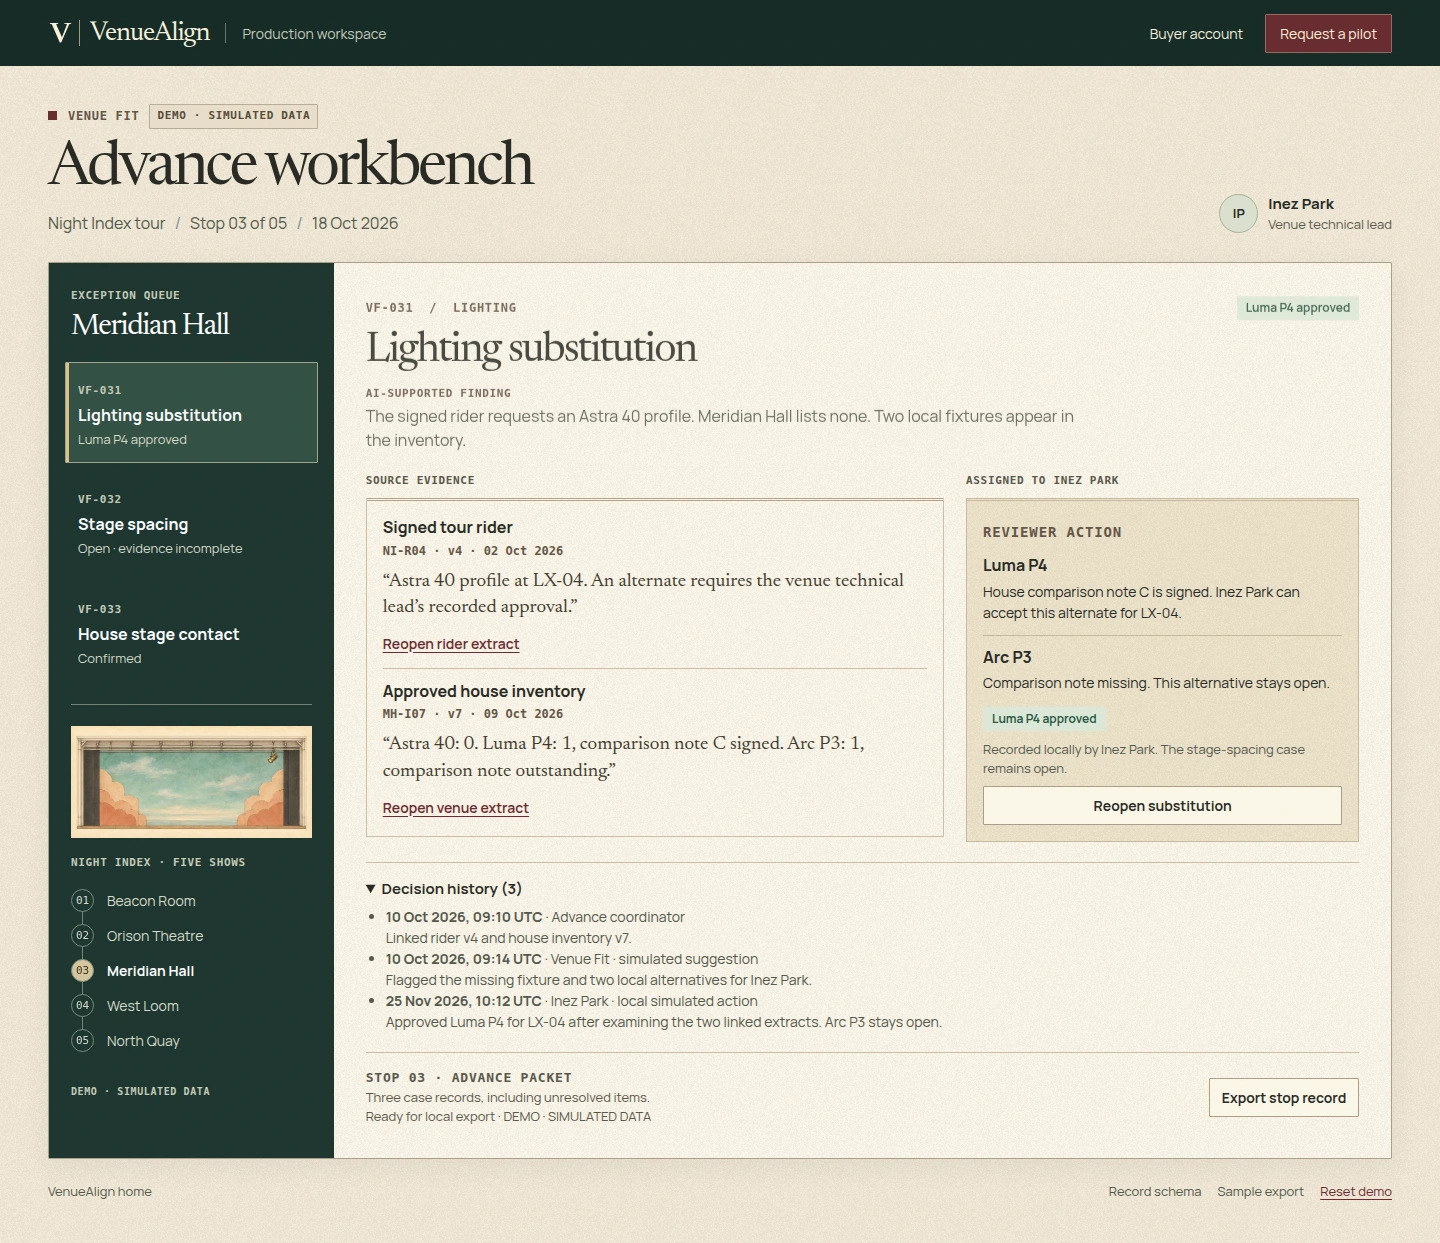
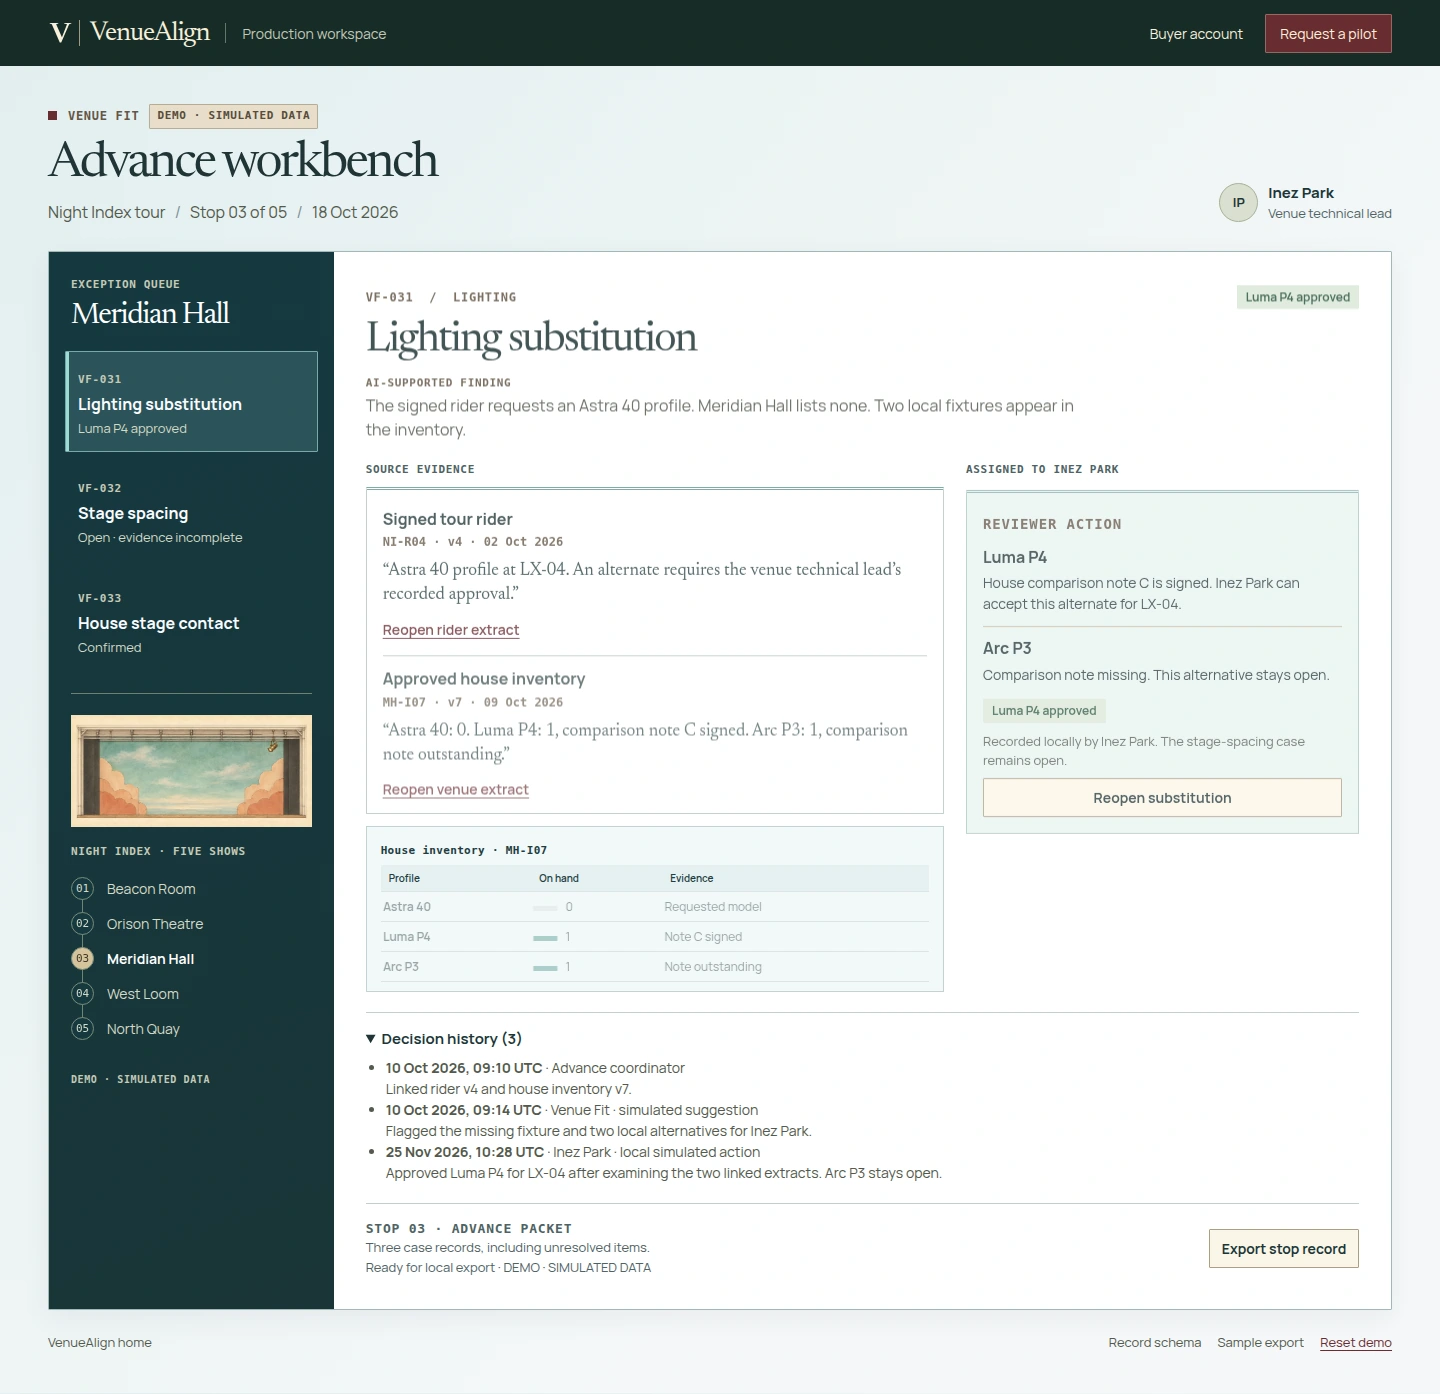
Polish mobile navigation, update case captures and record the browser motion preview

diff --git a/public/scenic.css b/public/scenic.css
@@ -322,3 +322,32 @@ h2 {font-size:clamp(34px,3.5vw,58px);letter-spacing:-.041em;line-height:1.02}
  .stocktable td,.stocktable th {padding:6px 4px}
  .rolechapter .routeplate {color:var(--ink)}
 }
+
+.subhero:not(.night),.formpage {background:linear-gradient(120deg,#eff7f6,#e3eef1)}
+.subhero .sourcesheet,.subhero .scoretable,.subhero .routeplate,.intake,.screenproof {background:#fff;border-color:#abc3c2}
+.intake,.subhero .sourcesheet {border-top-color:#66928f}
+input:not([type=range]),textarea,select {background:#fbfefd}
+.navinner [aria-current=page] {text-decoration:underline;text-underline-offset:5px}
+.art {position:relative}
+.art:after {content:"";position:absolute;inset:0;pointer-events:none;border-right:2px solid #569c92;background:linear-gradient(90deg,transparent 65%,#eafffa34);transform:translateX(-102%);opacity:0}
+@media (hover:hover) and (prefers-reduced-motion:no-preference) {
+ .productcard:is(:hover,:focus-within) .art:after {animation:card-scan .72s ease-in-out}
+ .offersmenu a:hover .symbol {background:#bcded6}
+ @keyframes card-scan {0%{transform:translateX(-101%);opacity:0}15%{opacity:1}90%{opacity:1}100%{transform:translateX(2%);opacity:0}}
+}
+.footgrid>div:not(:first-child) a:hover {color:#fff;text-decoration:underline;text-underline-offset:4px}
+@media(max-width:760px) {
+ .navinner .flyout.offersmenu {border:0}
+ .conchoices button {min-height:42px}
+}
+@media(max-width:760px) {
+ .navinner {gap:10px}
+ .navend .btn.small {white-space:nowrap;font:600 12px/1.25 var(--sans);padding:9px 12px}
+ .navinner .hamb {font-size:12px;flex-shrink:0}
+}
+@media(max-width:370px) {
+ .navinner {gap:6px}
+ .navinner .brand {font-size:21px;gap:5px}
+ .navinner .brand svg {width:22px;padding-right:5px}
+ .navend .btn.small {padding-inline:8px;font-size:11px}
+}

diff --git a/public/site.js b/public/site.js
@@ -13,6 +13,9 @@ function track(event) {
 if (['rider-intake','venue-fit','changeover-planner','advance-packet'].includes(page)) track('offer_view_' + page);
 document.querySelectorAll('a[href="pilot.html"]').forEach(a => a.addEventListener('click', () => track('pilot_cta')));
 const nav = document.querySelector('#mainnav');
+nav.querySelectorAll('a').forEach(link => {
+  if(link.getAttribute('href')===page+'.html') link.setAttribute('aria-current','page');
+});
 const hamburger = document.querySelector('.hamb');
 const menus = [...nav.querySelectorAll('details')];
 function setNav(open) {
@@ -135,7 +138,7 @@ if (window.gsap && window.ScrollTrigger) {
       const chart=gsap.timeline({scrollTrigger:{trigger:desk,start:'top 84%',once:true},defaults:{ease:'power2.out'}});
       chart.fromTo(desk.querySelectorAll('.arc'),{attr:{'stroke-dasharray':'0 100'}},{attr:{'stroke-dasharray':'31 69'},duration:1,stagger:.17},0)
         .from(desk.querySelectorAll('.ringlegend div'),{x:9,opacity:0,duration:.35,stagger:.14},.12)
-        .from(desk.querySelectorAll('.conpanel:first-of-type tr,.conpanel[data-panel="VF-031"] tbody tr'),{y:10,opacity:.05,stagger:.12,duration:.55,clearProps:'transform,opacity'},.25);
+        .from(desk.querySelectorAll('.conpanel[data-panel="VF-031"] tbody tr'),{y:10,opacity:.05,stagger:.12,duration:.55,clearProps:'transform,opacity'},.25);
     });
     gsap.utils.toArray('.sourcesheet,.scoretable').forEach(sheet => {
       const rows=sheet.querySelectorAll('dl>div,tbody tr');

diff --git a/docs/scenic-design.md b/docs/scenic-design.md
@@ -2,20 +2,20 @@
 
 The touring production manager’s first question is whether the room can supply what the rider asks for. The homepage opens on a physical model of the show, then shows the same scenery as an elevation beside Meridian Hall’s open case. The lighting alternative and the clear-width question lead directly into the source workbench.
 
-The original artwork uses a petrol wing, painted sky cloth, terracotta flats and a brass practical. Paper, linen and wood tones distinguish the source register, product shelf, crew review and commercial scope. Newsreader sets the headlines, italic rider thesis and major calls to action. Manrope carries operational copy. Monospaced labels identify versions, case IDs and dates. Primary actions use oxblood #682C32, paper #F6F0E2 and dark petrol #173733. The V mark and ruled serif wordmark also appear on the fictional workbench.
+The original artwork uses a petrol wing, painted sky cloth, terracotta flats and a brass practical. A cool drafting grid introduces the tracing, white pages frame the working documents, and a dark petrol field brings the interactive review desk forward. Newsreader sets the headline and italic rider thesis. Manrope carries navigation, buttons and operational copy. Monospaced labels identify versions, case IDs and dates. Primary actions use oxblood, white #FBFCFB and dark petrol #173733. The V mark and ruled serif wordmark also appear on the fictional workbench.
 
 ## Component references
 
 | Component | Reference | VenueAlign application |
 |---|---|---|
-| Masthead | [Profound on Mobbin](https://mobbin.com/sites/sections/34613491-9d1f-477f-ab4c-d82a7bd9f93a) | Compact product disclosure with a separate demo link and pilot action. The mobile menu keeps pricing and workspace access within reach. |
+| Masthead | [Profound on Mobbin](https://mobbin.com/sites/sections/34613491-9d1f-477f-ab4c-d82a7bd9f93a) | Four module links and a product overview in the disclosure. Use cases, Pricing and Company each have a direct entry. Demo and the pilot action sit beside them. |
 | Final action | [Readymag on Mobbin](https://mobbin.com/sites/sections/198d2322-c28e-47dd-aba4-6ed77d507217) | One dominant action to scope a pilot, quieter guided-demo access, a venue-specific packet alongside. |
 | Footer | [Customer.io on Mobbin](https://mobbin.com/sites/sections/c25553c8-d4a9-46a9-be78-ea63abc9ffed) | Brand and remit first, then product, evaluation, company and reference destinations. |
 | Illustrated offers | [Miro on Mobbin](https://mobbin.com/sites/sections/5cac9637-e51a-42a3-a848-05352428ce91) | Each offer shows the artifact the team handles. All artwork and case details are original. |
-| Reveal and button movement | [Contra Labs report](https://contralabs.com/creative-intelligence-report-2026) and [Hover.css interaction catalogue](https://ianlunn.github.io/Hover/) | A masked title entrance and three staggered horizontal bands inside primary buttons. The local video’s recoverable frames show the opening reveal. The button treatment interprets the requested shutter effect. |
+| Reveal and button movement | [Contra Labs report](https://contralabs.com/creative-intelligence-report-2026) and [Hover.css interaction catalogue](https://ianlunn.github.io/Hover/) | The stage wings open, the lamp brightens and the headline rises. A replay control repeats the opening. Three staggered horizontal bands sweep through the buttons. The local video’s recoverable frames show the opening reveal. The button treatment interprets the requested shutter effect. |
 
 ## Scroll and review behavior
 
-The desktop product shelf travels horizontally with scroll and has previous and next controls. A tour route draws across five stops. The review chapter changes the visible evidence excerpt as the source, comparison and decision steps enter view. The local workbench records an approval only after the visitor inspects both documents and chooses the reviewer action. On smaller screens the shelf uses native horizontal scrolling. A reduced-motion preference preserves the reading order, link actions and case state.
+Scrolling blends the painted elevation into a technical tracing. A range input lets a reviewer inspect either view with a pointer or keyboard. The case preview draws its status ring and reveals the three inventory rows. Selecting Stage width grows the two separately labelled dimension bars. The desktop product shelf travels horizontally with scroll and has previous and next controls. A tour route draws across five stops. The review chapter changes the visible evidence excerpt as the source, comparison and decision steps enter view. The local workbench records an approval only after the visitor inspects both documents and chooses the reviewer action. On smaller screens the shelf uses native horizontal scrolling. A reduced-motion preference preserves the reading order, link actions and case state.
 
 The scroll implementation uses [Lenis’s GSAP integration](https://github.com/darkroomengineering/lenis#gsap-scrolltrigger) and [GSAP ScrollTrigger](https://gsap.com/docs/v3/Plugins/ScrollTrigger/). Keyboard focus has its own outline and reduced motion removes the button transition. [W3C focus guidance](https://www.w3.org/WAI/WCAG22/Techniques/css/C45)

diff --git a/docs/VenueAlign-architecture.md b/docs/VenueAlign-architecture.md
@@ -20,13 +20,13 @@ The November concept brief supplies the working hypotheses. VenueAlign is the re
 
 | Chapter | On-page story | Art, motion and action |
 |---|---|---|
-| Hero | **Advance the show.** Find the rider requirements a venue still needs to resolve. Compare the signed rider with the house inventory and put each open decision in front of the right technical lead. | Painted touring model, serif headline and oxblood Venue Fit action. A front elevation and Meridian Hall case plate follow the hero. |
+| Hero | **Advance the show.** Find the rider requirements a venue still needs to resolve. Compare the signed rider with the house inventory and put each open decision in front of the right technical lead. | Painted touring model, serif headline and oxblood Venue Fit action. Stage wings open around the title. A scroll-controlled tracing and Meridian Hall case plate follow the hero. |
 | The buyer's problem | **The rider travels. The room changes.** A rider can stay fixed for five dates while the local inventory, dimensions and crew change at every stop. A late gap can mean a rental or a change to the schedule. | Paper field with rider and venue excerpts. Reveal the missing relationship before the review workflow. |
-| Four separately scoped offers | **From rider to running order.** Turn the rider into sourced lines, compare them with the venue, review the changeover and issue the stop packet. | Four individually illustrated panels, horizontal on wide screens with manual controls and direct product links. Mobile visitors can swipe or use the buttons. |
 | Shared platform and dashboard | **Inside Meridian Hall.** Stop 03 of 05, a fixture exception and a stage-width question. Follow the source, proposed finding, reviewer and outcome in a single record. | Dark control-room chapter and interactive workbench. Export includes unresolved items. |
+| Four separately scoped offers | **From rider to running order.** Turn the rider into sourced lines, compare them with the venue, review the changeover and issue the stop packet. | Four individually illustrated panels, horizontal on wide screens with manual controls and direct product links. Mobile visitors can swipe or use the buttons. |
 | How staff review | **Evidence first. A person decides.** Read the two dated sources. Inspect the suggested local alternative. Approve a supported choice or leave the case assigned. | Three-step evidence story. Review history and source links stay beside the case. |
 | Use cases | **One advance, several owners.** Touring leads carry requirements, venue teams validate local capacity, suppliers confirm availability, promoters own spend. | Role-based disclosure with a specific decision and handoff per role. |
-| Results and feedback | **What would make this worth using?** Compare review minutes, valid substitutions and unsupported suggestions against the last season. | Named measures with units, reviewer prompts and a feedback form. No customer quote presented as fact. |
+| Results and feedback | **What does the reviewer need?** Compare review minutes, valid substitutions and unsupported suggestions against the last season. | Named measures with units, reviewer prompts and a feedback form. No customer quote presented as fact. |
 | Pilot and price | **Test it on a season you know.** Quote the paid Venue Fit scope separately. Test $18,000 per year for an event-tiered promoter or venue-group subscription. | Two commercial paths, clear prerequisites and decision owner. |
 | FAQ and close | **Bring one unresolved stop.** Agree the baseline, reviewer and decision threshold with the person who owns the budget. | Pilot request and guided demo, followed by the full site index and privacy information. |
 
